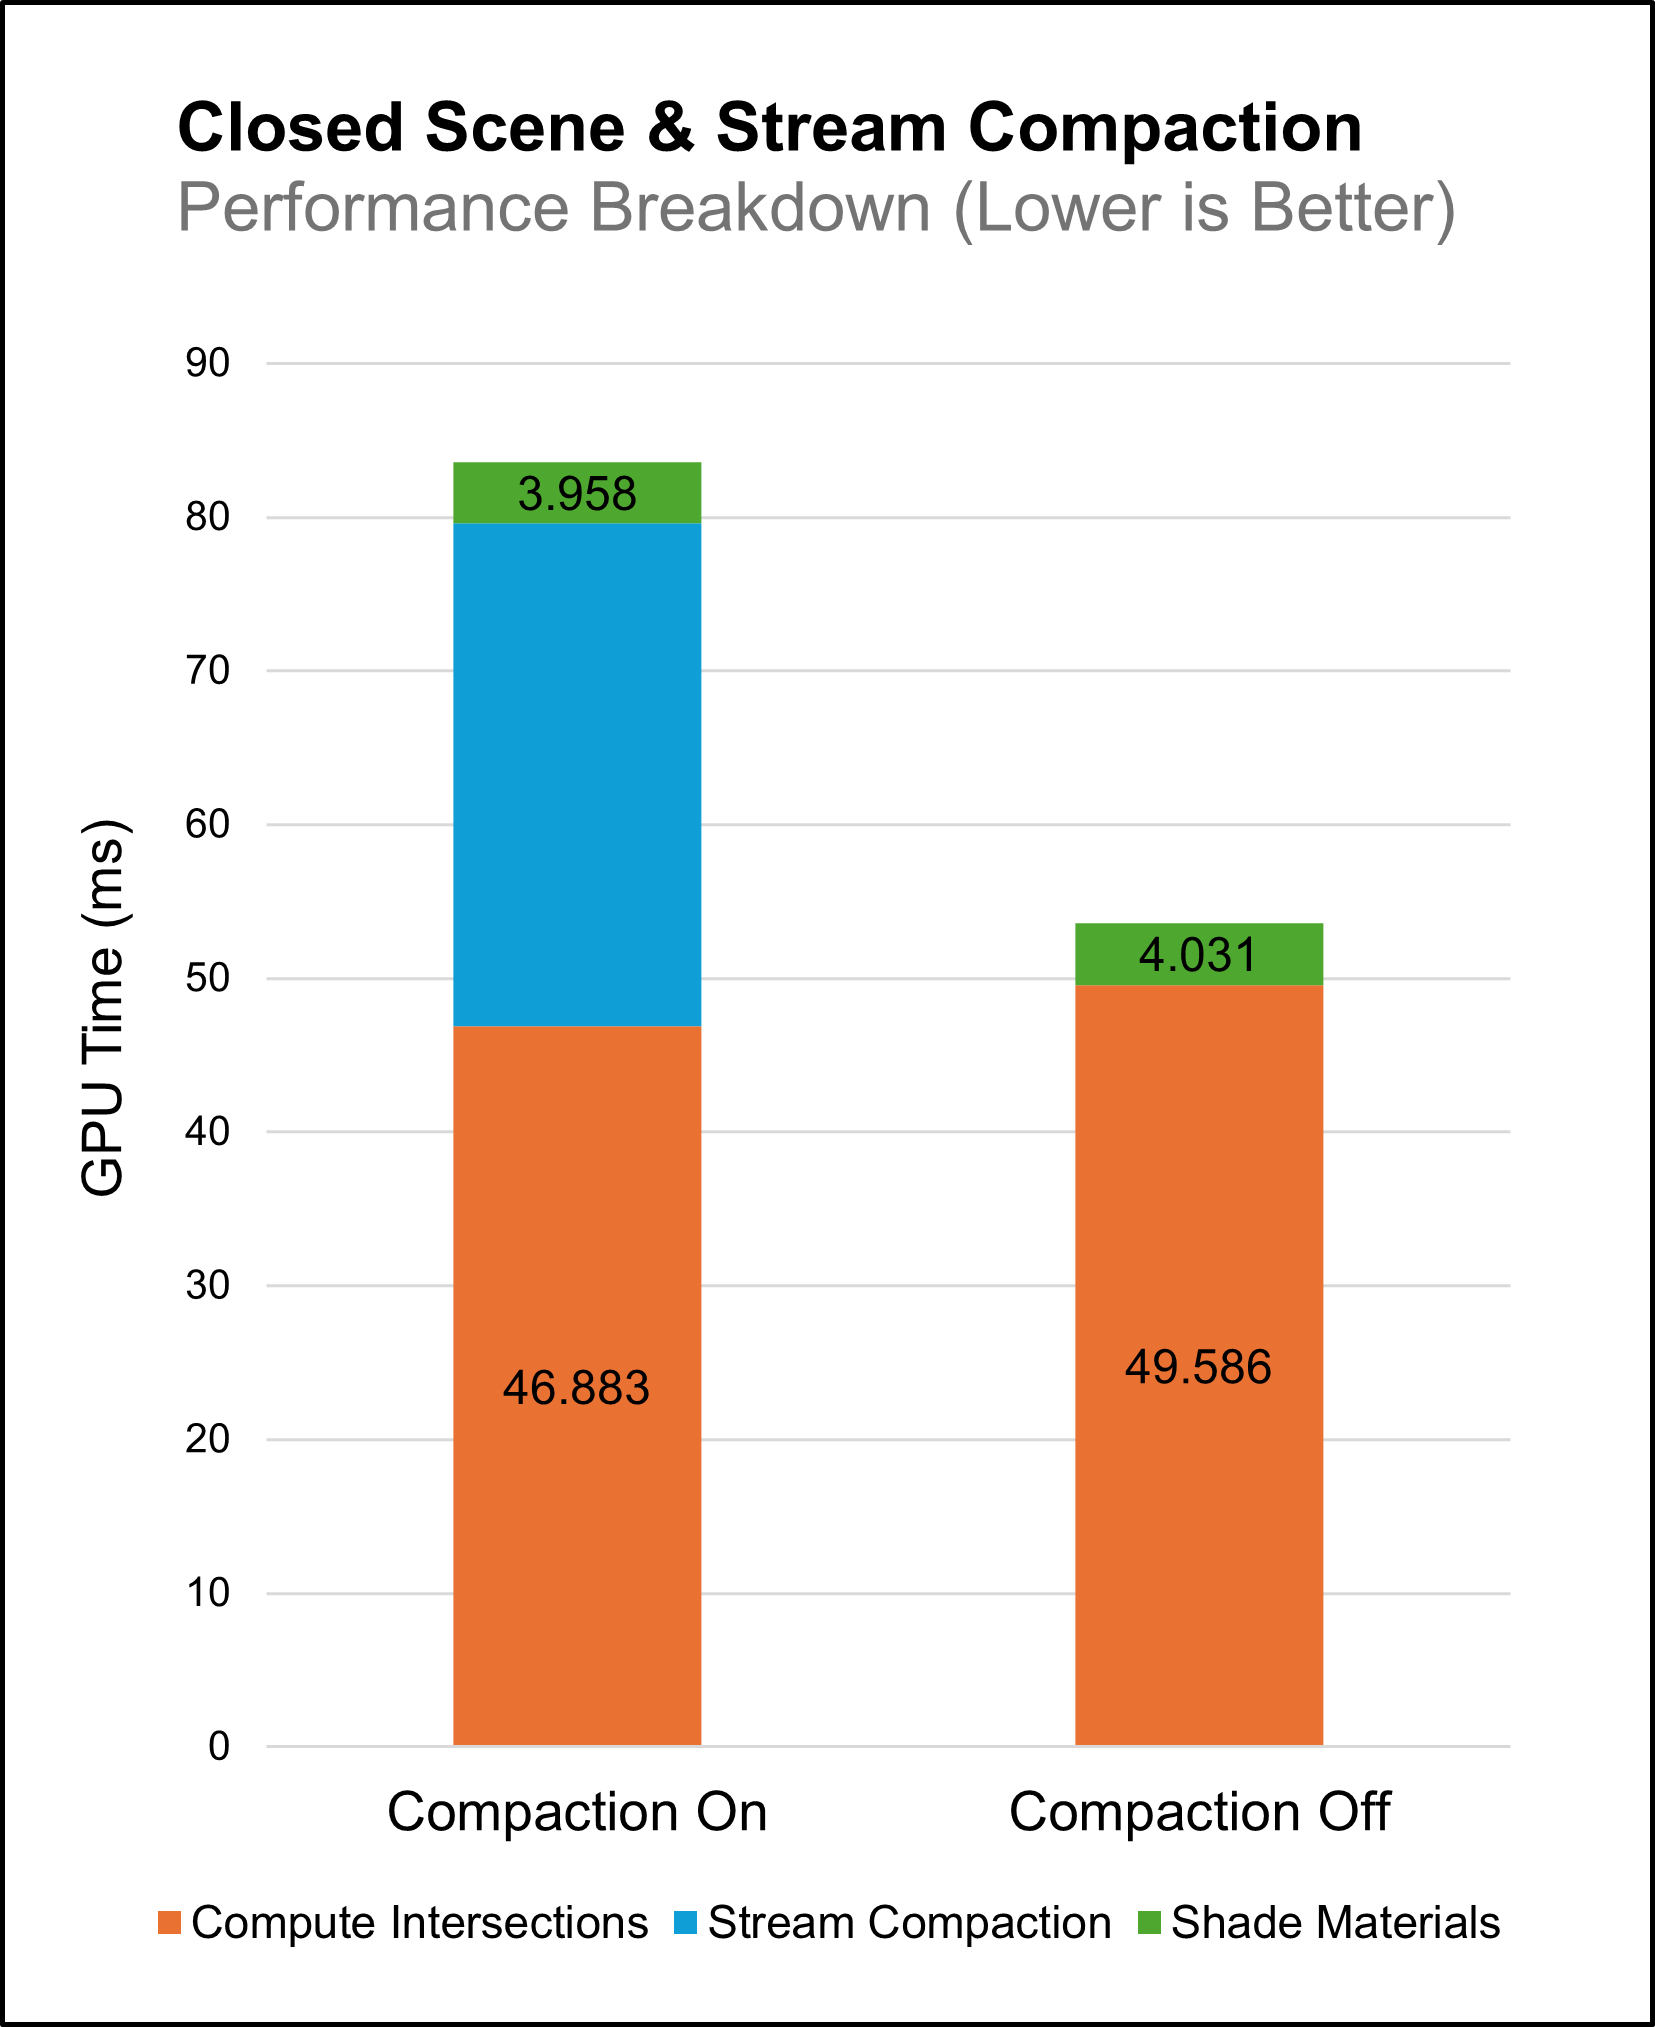
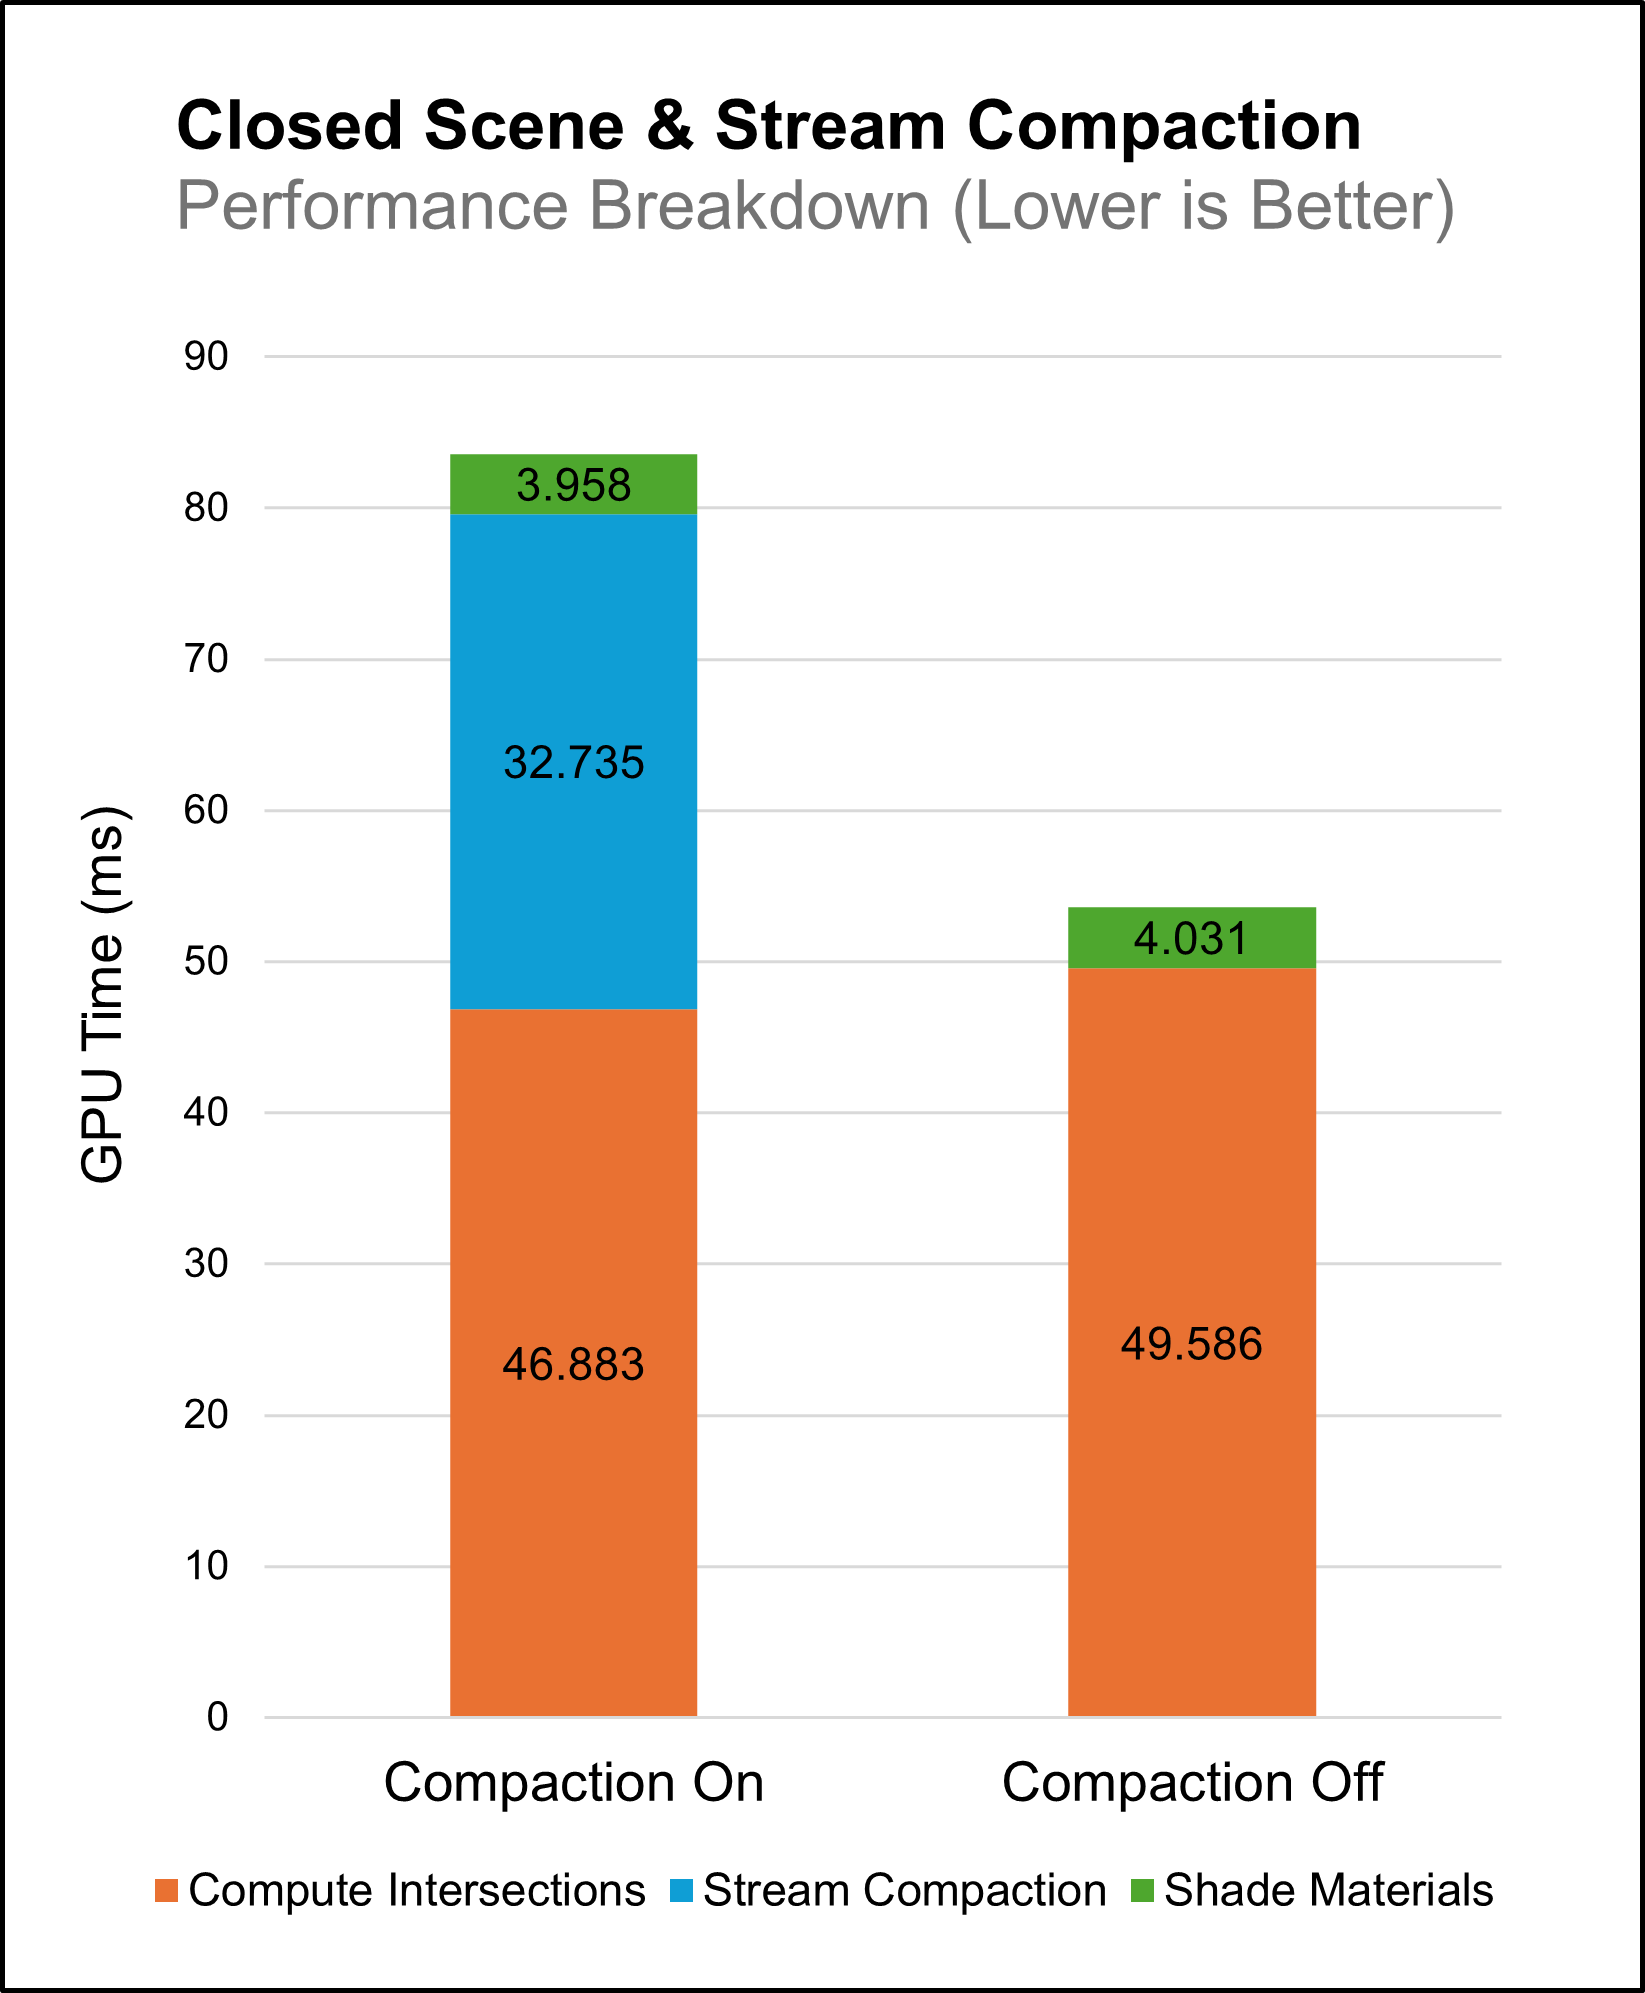
feat: update readme

diff --git a/src/main.cpp b/src/main.cpp
@@ -439,6 +439,7 @@ static inline glm::vec3 reinhard(glm::vec3 c, float exposure = 1.0f) {
 static inline glm::vec3 to_display(glm::vec3 c) {
     c = aces(c);
     return glm::vec3(linear_to_srgb(c.r), linear_to_srgb(c.g), linear_to_srgb(c.b));
+    //return c; 
 }
 
 
@@ -560,10 +561,10 @@ void runCuda()
     }
     else
     {
-        //normalPass(renderState->aovIters);
-        //albedoPass(renderState->aovIters);
-        //roughnessPass(renderState->aovIters); 
-        //metallicPass(renderState->aovIters); 
+        normalPass(renderState->aovIters);
+        albedoPass(renderState->aovIters);
+        roughnessPass(renderState->aovIters); 
+        metallicPass(renderState->aovIters); 
         saveImages();
         pathtraceFree();
         cudaDeviceReset();

diff --git a/README.md b/README.md
@@ -1,13 +1,131 @@
-CUDA Path Tracer
-================
+# CUDA Path Tracer
 
-**University of Pennsylvania, CIS 565: GPU Programming and Architecture, Project 3**
+## Project Introduction
 
-* (TODO) YOUR NAME HERE
-* Tested on: (TODO) Windows 22, i7-2222 @ 2.22GHz 22GB, GTX 222 222MB (Moore 2222 Lab)
+> University of Pennsylvania CIS5650 – GPU Programming and Architecture
+> 
+> - Jacky Park
+> - Tested on: Windows 11, i9-13900H @ 2.60 32 GB, RTX 4070 (Laptop GPU) 8 GB (Personal Machine: ROG Zephyrus M16 GU604VI_GU604VI)
 
-### (TODO: Your README)
+This project uses CUDA programming library to implement a GPU path tracer.
 
-*DO NOT* leave the README to the last minute! It is a crucial part of the
-project, and we will not be able to grade you without a good README.
+# Representative Outcome
+
+- Toy Scene
+- F1 McLaren
+- Alien
+- Magnemite
+
+# Visual Features
+
+## Rendering Realism: Physically-Based Materials
+
+### Diffuse (Lambertian)
+
+An ideal **Lambertian** BRDF that scatters light uniformly over the hemisphere. Uses **cosine-weighted sampling** and an **energy-conserving** formulation; appropriate for perfectly rough, non-metal surfaces (matte paint, worn rubber).
+
+### Metallic-Roughness (Microfacet PBR)
+
+An artist-friendly workflow driven by **base color (albedo)**, **metallic**, **roughness**, and **normal** textures. The BRDF uses **Trowbridge–Reitz GGX** with **Smith** masking-shadowing and **Schlick** Fresnel. A **multiple-scattering energy compensation** step keeps rough conductors physically plausible so metals don’t go unnaturally dark at high roughness.
+
+### **Dielectric (Transparent Insulators)**
+
+A physically based model for glass, water, and clear plastics. It splits energy between reflection and refraction using Fresnel (Schlick) with a chosen index of refraction.
+
+![pbr material balls](img/pbr.png)
+
+*metallic–roughness grid (metallic top→bottom, roughness left→right); rightmost column shows **dielectric** spheres with varying **index of refraction**.*
+
+### Image Based Lighting: HDR Environment Map
+
+Lighting can make or break a scene, and hand-crafting it is time-consuming. **HDR environment maps (HDRIs)** are an image-based lighting shortcut: they capture real-world light and color, so the renderer can sample the map instead of terminating rays that miss geometry. This yields believable global illumination and a natural **background** with minimal setup. 
+
+In this project, I use an equirectangular HDRI and sample it for radiance at the ray’s exit direction; it’s a simple way to get realistic lighting without manual light rigging.
+<div align="center">
+
+| Fireplace (HDRI) | Studio (HDRI) |
+| :------: | :------: |
+| ![rocket_fireplace](img/rocket_fireplace.png) | ![rocket_studio](img/rocket_studio.png)  | 
+
+</div>
+
+### More Details!: Normal Map & PBR Texture
+
+Modern asset pipelines ship multiple texture maps per model. **Normal maps** fake small-scale surface detail without adding geometry. **Metallic** and **Roughness** textures (from tools like Substance Painter) drive a physically based **metallic-roughness** workflow for realistic materials.
+
+In this project, these maps come from **glTF**, get uploaded to the GPU, and are sampled during shading. 
+
+For inspection, I output **AOVs (Arbitrary Output Variables) -** e.g., **Albedo**, **Normal**, **Roughness**, **Metallic**. These views are great for debugging and also serve as guides for the denoiser discussed later.
+
+
+
+### Physically-Based Camera: Depth of Field
+A pinhole camera keeps everything razor-sharp, which isn’t how real cameras behave. Real lenses have a focus distance and an aperture, so subjects on the focus plane look crisp while others blur, a classic depth of field you see in film and photography. To achieve this effect, I use a thin-lens shortcut: instead of firing every ray from one point, I sample a random point on a lens disk (size = aperture) and aim at a focus point set by the focus distance. 
+
+It delivers natural, camera-like blur and bokeh with minimal setup—open the aperture for more blur, stop down for less.
+| DOF Enabled |
+| :------: |
+| ![magnemite_dof](img/magnemite_dof.png) |
+| DOF Disabled |
+| ![magnemite_nodof](img/magnemite_nodof.png)  | 
+
+
+### Correct Colors: Image Pre/Post Processing
+Color management is an integral part of the rendering pipeline. It includes converting texture inputs into a **linear** rendering space and converting the final image into the correct **display** space. The article linked [here](https://kinematicsoup.com/news/2016/6/15/gamma-and-linear-space-what-they-are-how-they-differ) illustrates why using the correct color space matters, but in short: for physically correct light transport, all color data must be in **linear** space, where numeric values scale proportionally with radiometric energy.
+
+![color_pipeline](img/color_pipeline.webp)
+*A side-by-side comparison of a scene shaded with a proper linear workflow versus one shaded in gamma space. The linear workflow preserves accurate light addition and material response, while the non-linear workflow shows incorrect brightness, washed-out highlights, and skewed color relationships. [(Image credit)](https://kinematicsoup.com/news/2016/6/15/gamma-and-linear-space-what-they-are-how-they-differ)*
+
+My renderer works in **sRGB - Linear** color space for shading. Texture images are converted from sRGB to linear on import; the final frames are **ACES** tone-mapped and **gamma-corrected** for display. In the future, a dedicated color-management library like **OpenColorIO (OCIO)** could be integrated to make the path tracer more robust and configurable.
+
+| No Post-Process | Post-Process |
+| :------: | :------: |
+| ![cornell_wrong](img/cornell_wrong.png) | ![cornell_right](img/cornell_aces.png)  | 
+
+### Stochastic Anti-aliasing
+So far, each camera ray was aimed at the exact center of its pixel. This regular sampling is prone to aliasing, which shows up as jagged edges and shimmering on high-frequency detail (see image 1). The fix is simple: stochastic anti-aliasing. Jitter the ray’s target within the pixel footprint so each iteration samples a slightly different sub-pixel position, then average those samples over many iterations to approximate the pixel’s true integral and smooth edges.
+
+In practice, the benefit is most obvious on perfectly specular materials. With center-only sampling, rays launch in the same direction, reflect in the same direction, and accumulate the same radiance, so specular highlights and edges alias badly. Jittered sampling decorrelates those paths, produces varied sub-pixel samples, and yields a much cleaner, more stable result after averaging.
+
+| AA Enabled | AA Disabled |
+| :------: | :------: |
+| ![cornell_wrong](img/graphs/open-stream-compaction.png) | ![cornell_right](img/graphs/closed-stream-compaction.png)  | 
+
+## Performance
+### Stream Compaction
+The basic loop in a path tracer shoots paths from the camera: one per pixel. On the first iteration we launch width × height threads (one thread per path). After the first bounce, some paths may escape to the environment or terminate for other reasons (Russian roulette, absorption, etc.). From that point on, launching the full thread count wastes work.
+
+A simple optimization is **stream compaction**: after each bounce, remove “dead” paths from the work list so the next kernel launch uses exactly the number of still-alive paths. In this path tracer, we compact by splitting live and dead paths each iteration with `thrust::partition`. This introduces overhead in lockstep, so it only pays off when a substantial fraction of paths have already terminated. 
+
+| Open Scene | Closed Scene |
+| :------: | :------: |
+| ![cornell_wrong](img/graphs/open-stream-compaction.png) | ![cornell_right](img/graphs/closed-stream-compaction.png)  | 
+
+The graph above shows this effect: as the dead-ray percentage rises (in the open scene), total render time drops faster than the compaction overhead grows, yielding a net speedup; when survival stays high, compaction can hurt.
+
+### Material Sorting
+As another optimization, I implemented material-based sorting. Specifically, I sort active paths by their intersected material type (e.g., PBR, diffuse, dielectric) using `thrust::sort_by_key`, then launch a separate kernel per material group. The idea is to use smaller, specialized kernels (one material per kernel) instead of a mega-kernel, which should reduce branch divergence and improve cache/memory coherence.
+
+The results, however, were less than ideal: 
+| Test Scene | Test Result |
+| :------: | :------: |
+| ![cornell_wrong](img/magnemite_closed.png) | ![cornell_right](img/graphs/material-sort.png   )  | 
+
+In reality though, sorting every bounce introduced significant overhead—key generation, `sort_by_key` passes, scanning to find group boundaries, and multiple kernel launches. In our scenes, the benefit from reduced branching wasn’t large enough to offset these costs. The graph below shows this: total time with material sorting exceeded the baseline despite slight wins inside the shading kernels.
+
+The likely culprits are pretty straightforward. With only around eight material buckets, grouping doesn’t buy much—warps still see plenty of variation within a single “material” due to textures, roughness, and IOR differences. On top of that, the per-bounce resorting and relaunching adds a lot of overhead: we’re doing global shuffles of data and paying extra kernel launches at resolutions and paths-per-pixel where those costs dominate. Finally, the memory traffic is nontrivial; reordering zipped arrays (paths, intersections, RNG state, throughput) every bounce is simply expensive.
+
+Still, I think there are scenarios where this approach can help: namely very large scenes with lots of distinct material branches and heavy BSDF divergence. If we go that route, we can consider lighter-weight bucketing/partitioning instead of a full sort (e.g., `thrust::stable_partition` into coarse bins like dielectric, conductor, diffuse) and process those bins sequentially. Binning as a small cascade of partitions, the effective work scales like O(n log M) for M material buckets, whereas a full sort scales like O(n log n) (comparison-based) or O(k n) (radix), so with a small M the binning route often wins. Additionally, we could also reduce churn by sorting less often (every k bounces or after a big drop in active paths).
+
+### BVH
+Finally, the most significant optimization for supporting arbitrary, high-poly meshes is a BVH: a Bounding Volume Hierarchy. It’s a tree that partitions scene geometry into nested bounding volumes to avoid testing every triangle for every ray. Without a BVH, naive ray finding is O(n) triangle tests per ray. With a BVH, you traverse a tree and cull whole regions at once. Practical ray cost becomes O(log n) node visits plus intersections with a small set of leaf triangles.
+
+We can see the benefit clearly in the test below:
+
+| Test Scene | Test Result |
+| :------: | :------: |
+| ![cornell_wrong](img/magnemite_open.png) | ![cornell_right](img/graphs/bvh.png)  | 
+
+The model has ~50k triangles. Using a BVH reduced frame time by ~99.3%, about a 131× speedup.
+
 
